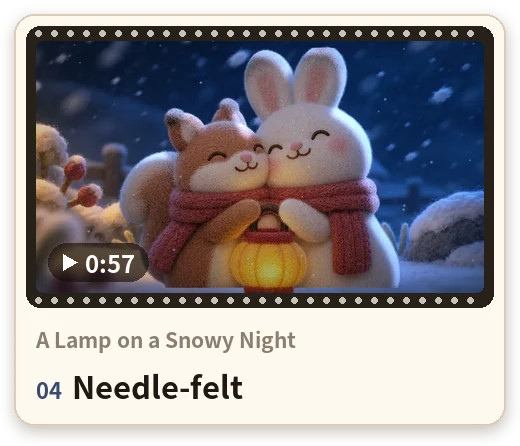
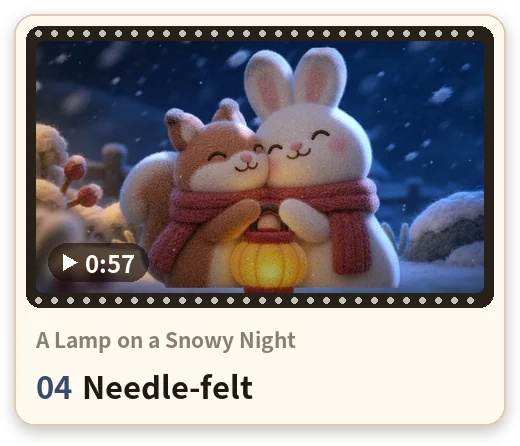
README style cards: reel number as large as the style name
Claude-Session: https://claude.ai/code/session_01H613ezpgewyd5y2W2gwEth

Changed region(s): [[0.0615, 0.8161, 0.4923, 0.9036]]

diff --git a/docs/build.py b/docs/build.py
@@ -598,7 +598,7 @@ def readme_card(sid, s, lang, i):
     ks = 31
     while d.textlength(f'{no}  {kind}', font=F(ks)) > cw - 2 * pad - 20 and ks > 24:
         ks -= 1
-    fs, fn = F(ks), F(round(ks * .72))
+    fs = fn = F(ks)
     base = ty + 30 + 14 + round(ks * .8)                              # title line, gap, style cap height
     d.text((tx0, base), no, font=fn, fill=acc_ink, anchor='ls')
     d.text((tx0 + d.textlength(no, font=fn) + 10, base), kind, font=fs, fill=ink, anchor='ls')
